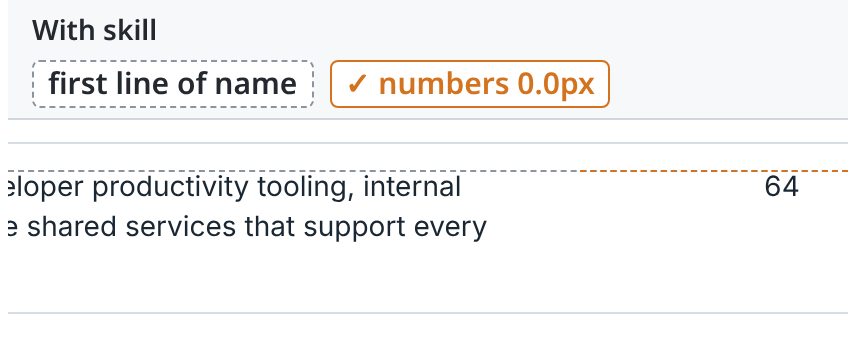
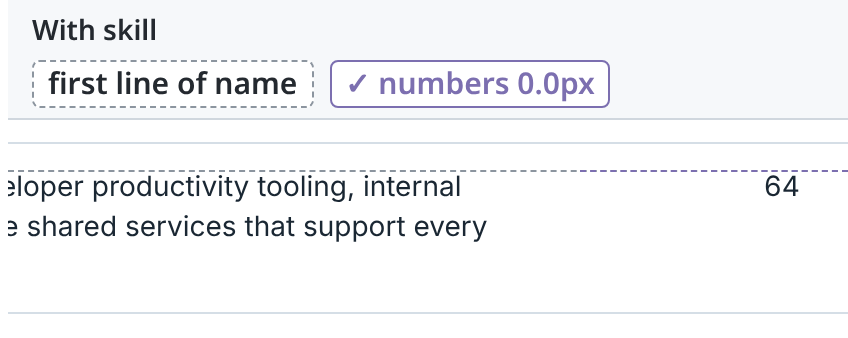
Soften comparison accent colour
- Replace the orange measurement accent with a soft violet (#7c6fb0,
  tint #efeef6). It reads as a separate layer without signalling a
  warning and stays clear of the navy buttons in the demo page.
- Everything else is unchanged: gray structure, solid line and tinted
  tag for off, dashed line and outlined check-mark tag for aligned.
- Name the new colour in the README key sentence.
- readme-check.mjs now checks that every header strip uses the expected
  accent hue.

Changed region(s): [[0.3679, 0.1775, 0.7358, 0.3254], [0.7052, 0.503, 1.0, 0.5325]]

diff --git a/README.md b/README.md
@@ -104,7 +104,7 @@ They look similar at a glance. That's the point: the difference is a badge 6.3px
 
 ## Side-by-side
 
-Round 3 pages at 1280px, re-rendered in headless Chromium. Left: without the skill. Right: with it. Every crop is the same size as its partner, and the overlays use one key: gray dashed lines are the reference, orange is the measurement. A solid orange line with a filled tag is off; a dashed orange line with an outlined ✓ tag is aligned or on scale.
+Round 3 pages at 1280px, re-rendered in headless Chromium. Left: without the skill. Right: with it. Every crop is the same size as its partner, and the overlays use one key: gray dashed lines are the reference, soft violet is the measurement. A solid violet line with a filled tag is off; a dashed violet line with an outlined ✓ tag is aligned or on scale.
 
 **1. Badge on the title baseline.** Without the skill, the "3 plans active" chip sits 6.3px above the heading's baseline. With it, the chip shares the heading's baseline exactly (0.0px).
 
